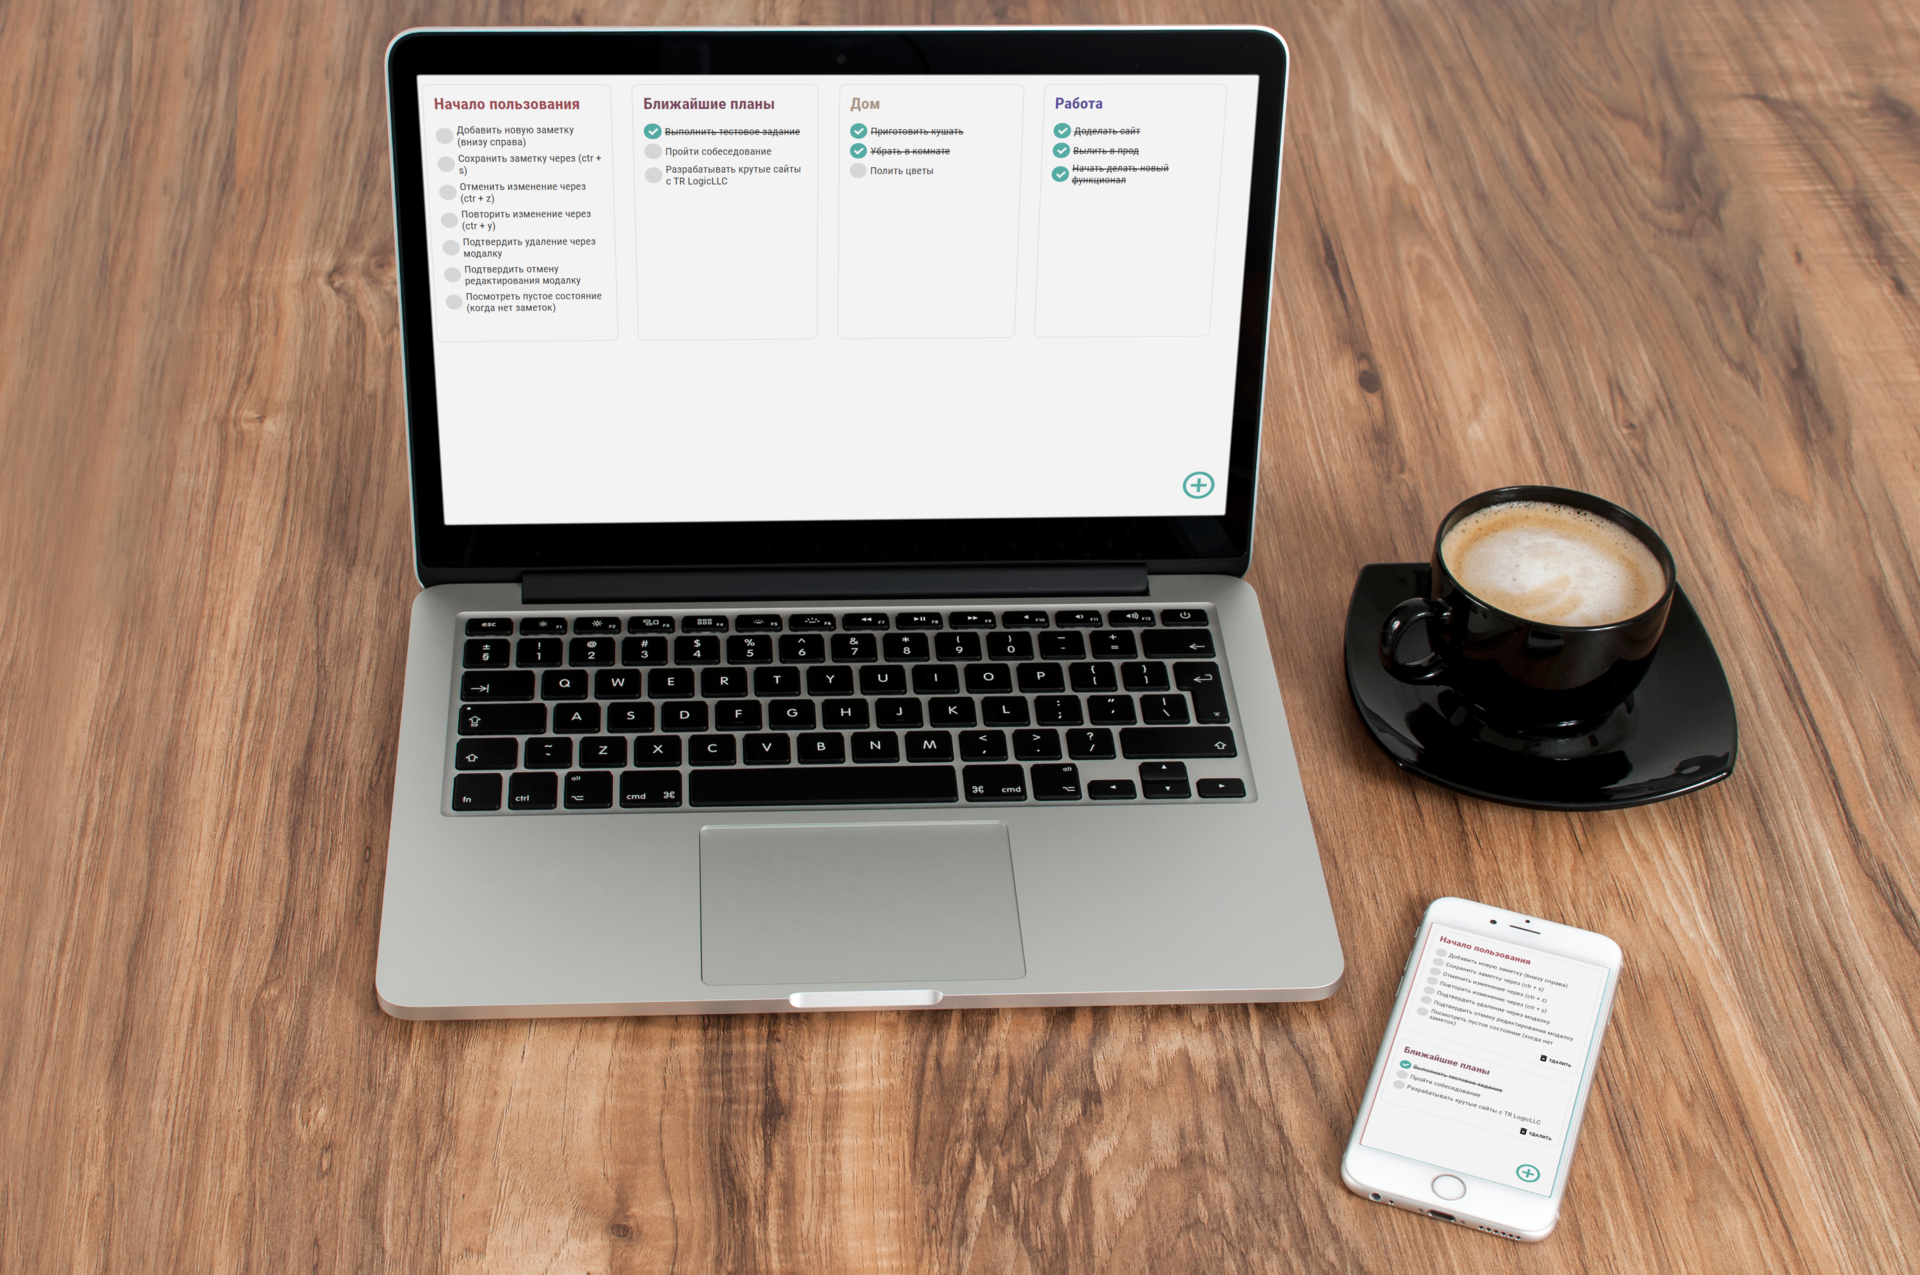
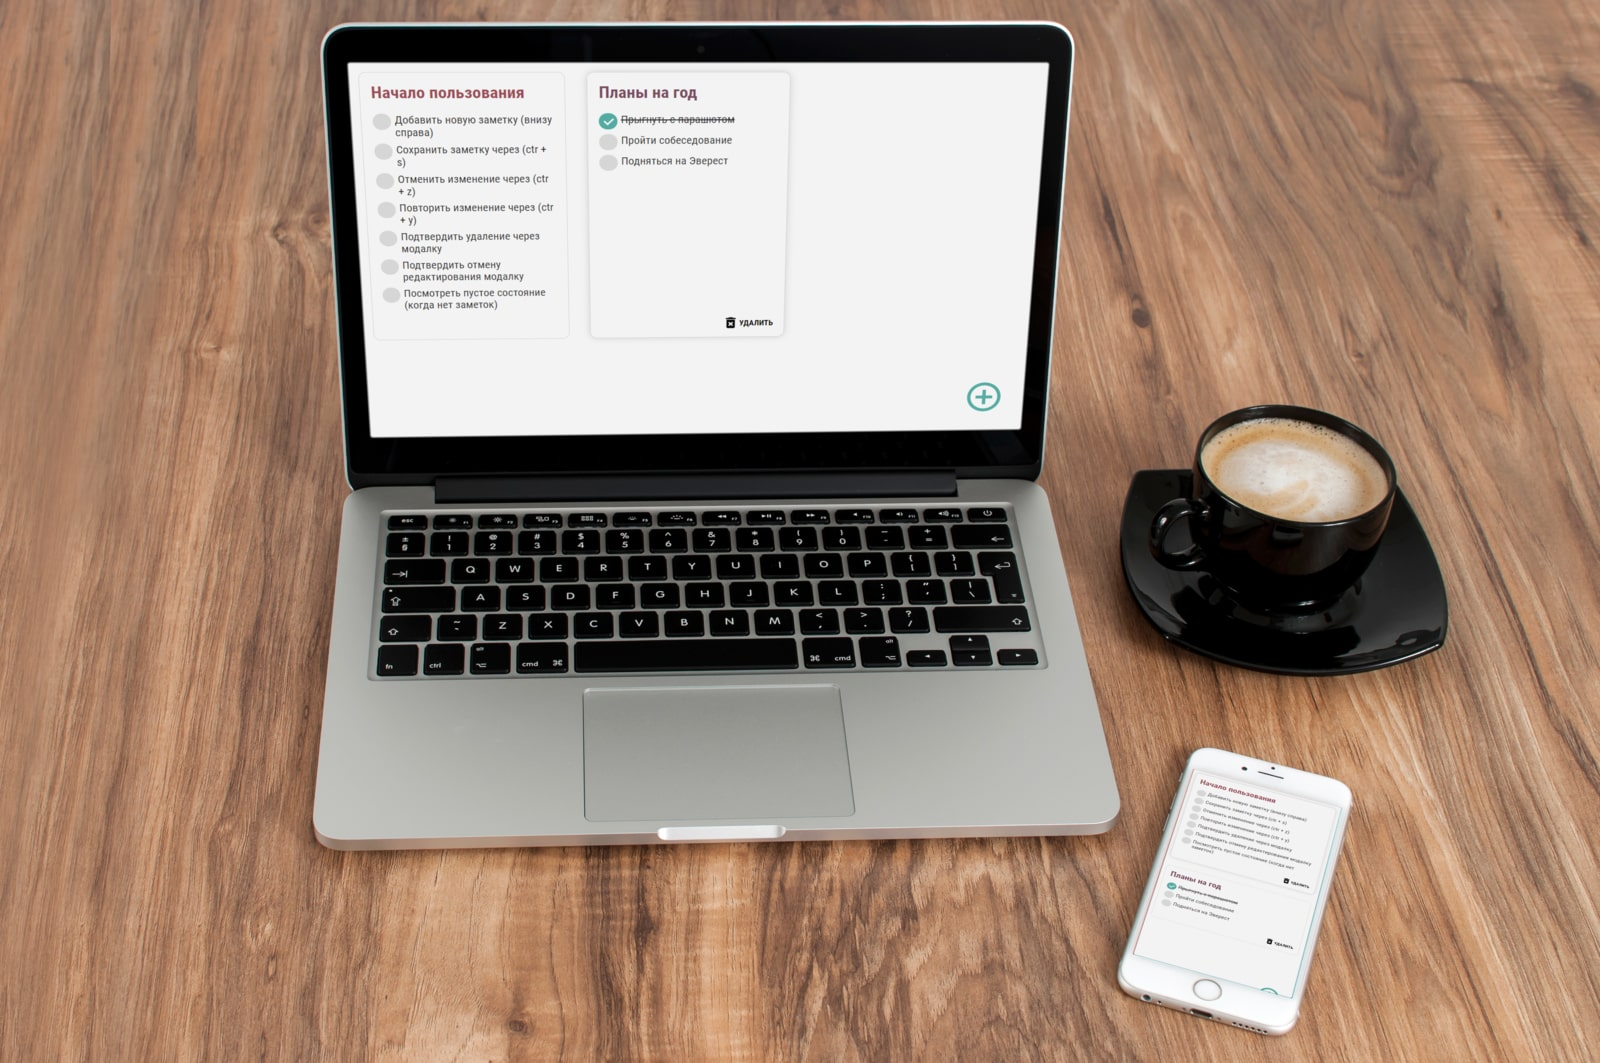
:zap: add arrow and new screen

diff --git a/src/components/NoteAction.vue b/src/components/NoteAction.vue
@@ -1,4 +1,6 @@
 <template>
+<div class="wrapper">
+	<back-button />
   <div class="note-action">
     <input
       type="text"
@@ -107,32 +109,35 @@
       @modalConfirm="modalConfirm"
     />
   </div>
+</div>
 </template>
 
 <script>
-import ModalPopup from "./modal/ModalPopup";
+import ModalPopup from "./modal/ModalPopup"
+import BackButton from "./BackButton"
 
 // mixins
-import modal from "../mixins/modal";
+import modal from "../mixins/modal"
 
 // vuex
-import { mapGetters, mapActions } from "vuex";
+import { mapGetters, mapActions } from "vuex"
 
 // icons
-import IconBase from "./icons/IconBase.vue";
-import IconAddCircle from "./icons/IconAddCircle.vue";
-import IconClear from "./icons/IconClear.vue";
-import IconDeleteBin from "./icons/IconDeleteBin.vue";
-import IconSave from "./icons/IconSave.vue";
-import IconUndo from "./icons/IconUndo.vue";
-import IconRedo from "./icons/IconRedo.vue";
-import IconDiscard from "./icons/IconDiscard.vue";
+import IconBase from "./icons/IconBase.vue"
+import IconAddCircle from "./icons/IconAddCircle.vue"
+import IconClear from "./icons/IconClear.vue"
+import IconDeleteBin from "./icons/IconDeleteBin.vue"
+import IconSave from "./icons/IconSave.vue"
+import IconUndo from "./icons/IconUndo.vue"
+import IconRedo from "./icons/IconRedo.vue"
+import IconDiscard from "./icons/IconDiscard.vue"
 
 export default {
   name: "NoteAction",
   components: {
-    ModalPopup,
-    IconBase,
+		ModalPopup,
+		BackButton,
+		IconBase,
     IconAddCircle,
     IconClear,
     IconDeleteBin,
@@ -335,6 +340,12 @@ export default {
 @import "~@/styles/variables.scss";
 @import "~@/styles/mixins.scss";
 
+.wrapper {
+	width: 100%;
+	display: flex;
+  align-items: flex-start;
+}
+
 .note-action {
   display: flex;
   flex-direction: column;
@@ -344,7 +355,11 @@ export default {
   padding: 15px;
   margin: 15px auto;
   overflow: hidden;
-  transition: $transition;
+	transition: $transition;
+
+	@include xs-and-up {
+    width: 400px;
+  }
 
   &__title {
     font-size: 30px;
@@ -492,10 +507,6 @@ export default {
     font-size: 14px;
     text-transform: uppercase;
     color: $red-color;
-  }
-
-  @include xs-and-up {
-    width: 400px;
   }
 }
 

diff --git a/src/components/BackButton.vue b/src/components/BackButton.vue
@@ -1,0 +1,39 @@
+<template>
+	<router-link class="back-button" :to="{ name: 'NoteList' }">
+		<icon-base class="back-button__icon">
+			<icon-arrow/>
+		</icon-base>
+		Назад
+	</router-link>
+</template>
+
+<script>
+// icon
+import IconBase from "./icons/IconBase.vue";
+import IconArrow from "./icons/IconArrow.vue";
+
+export default {
+  name: "BackButton",
+  components: {
+		IconBase,
+		IconArrow
+  },
+};
+</script>
+
+<style lang="scss" scoped>
+@import "~@/styles/variables.scss";
+
+.back-button {
+	font-size: 18px;
+	text-decoration: none;
+	color: $text-color;
+	padding: 10px;
+
+	&__icon {
+		width: 14px;
+    height: 25px;
+		color: black;
+	}
+}
+</style>

diff --git a/src/components/icons/IconArrow.vue b/src/components/icons/IconArrow.vue
@@ -1,0 +1,3 @@
+<template>
+	<path d="M31.106,15H3.278l8.325-8.293  c0.391-0.391,0.391-1.024,0-1.414c-0.391-0.391-1.024-0.391-1.414,0l-9.9,9.899c-0.385,0.385-0.385,1.029,0,1.414l9.9,9.9  c0.391,0.391,1.024,0.391,1.414,0c0.391-0.391,0.391-1.024,0-1.414L3.278,17h27.828c0.552,0,1-0.448,1-1  C32.106,15.448,31.658,15,31.106,15z"/>
+</template>

diff --git a/src/components/NoteItem.vue b/src/components/NoteItem.vue
@@ -109,7 +109,7 @@ export default {
   &__todo-item {
     display: flex;
     flex-direction: row;
-    align-items: center;
+    align-items: flex-start;
     margin: 7px 0;
   }
 
@@ -179,6 +179,7 @@ export default {
   }
 
   @include lg-and-up {
+		min-width: 270px;
     width: 17.5%;
   }
 }

diff --git a/README.md b/README.md
@@ -1,24 +1,26 @@
 # SPA для ведения заметок 📝
 
-![](public/img/preview.jpg)
-
+<img src="public/img/preview.jpg"  />
 
 ### Установка
-```
+
+```sh
 yarn install
 ```
 
 ### Запуск для разработки
-```
+
+```sh
 yarn serve
 ```
 
 ### Билд
-```
+
+```sh
 yarn build
 ```
 
-### Что реализовано:
+### Что реализовано
 
 Действия на главной:
 
@@ -52,7 +54,7 @@ yarn build
 - [x] Сохранение по ctrl+s
 - [x] Диалоговые окна должны быть реализованы без использования "alert", "prompt" и "confirm"
 
-
+![](public/img/preview.png)
 
 Чтобы избежать `/#/` в пути нужно раскомментировать в  `router/router.js`  - `mode: 'history'`
 
